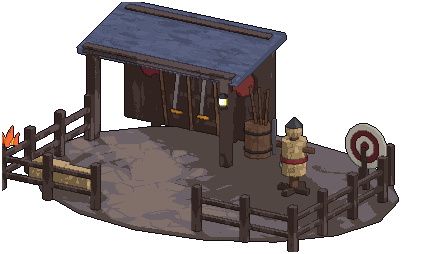
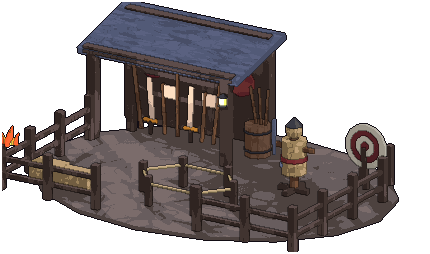
Town: heroes sort with the buildings by depth, calmer cobbles, brazier picture for the fires, trainer, market and trade table improved
Claude-Session: https://claude.ai/code/session_015fEAdaJScRneJQoLDJEkeN

diff --git a/tools/char3d/town_models.py b/tools/char3d/town_models.py
@@ -129,19 +129,26 @@ def trainer():
     prim("box", P["slate"], (-3.0, 2.8, 3.4), (6.0, 3.0, 0.22), rot=(14, 0, 0))
     box(P["wd"], -3.0, 1.45, 3.0, 5.6, 0.25, 0.25)
     point(-3.0, 1.0, 2.2, 260, (1.0, 0.6, 0.3), 0.4)
-    # weapon rack against the back wall
-    box(P["wd"], -4.4, 3.5, 0.12, 0.2, 0.2, 1.7)
-    box(P["wd"], -1.5, 3.5, 0.12, 0.2, 0.2, 1.7)
-    box(P["wd"], -2.95, 3.5, 0.55, 3.0, 0.2, 0.14)
-    box(P["wd"], -2.95, 3.5, 1.35, 3.0, 0.2, 0.14)
-    for k, x in enumerate([-4.0, -3.5, -3.0, -2.5, -2.0]):
-        tilt = (-7, 7, -4, 6, -5)[k]
-        if k in (0, 2, 4):                                            # spears
-            box(P["wl"], x, 3.3, 0.3, 0.09, 0.09, 2.3, rot=(0, tilt, 0))
-            cone(P["steel"], x + math.sin(math.radians(tilt)) * -1.2, 3.3, 2.55, 0.18, 0.5, seg=4)
-        else:                                                         # swords
-            box(P["steel"], x, 3.3, 0.9, 0.12, 0.06, 1.3, rot=(0, tilt, 0))
-            box(P["gold"], x, 3.3, 0.78, 0.4, 0.08, 0.08)
+    # a weapon rack standing in front of the back wall: two tiers, swords, spears and axes, all in the light
+    rx, ry = -3.0, 2.7
+    for x in (-1.8, 1.8):
+        box(P["wd"], rx + x, ry, 0.12, 0.24, 0.24, 2.1)
+    for z in (0.55, 1.5, 2.2):
+        box(P["wd"], rx, ry, z, 3.9, 0.22, 0.16)
+    bright = mat("steel_b", (176, 184, 204), rough=0.35)
+    for k in range(7):
+        x = rx - 1.5 + k * 0.5
+        tilt = (k - 3) * 2.5
+        if k % 3 == 0:                                                # spears
+            box(P["wl"], x, ry - 0.15, 0.3, 0.1, 0.1, 2.3, rot=(0, tilt, 0))
+            cone(bright, x - math.sin(math.radians(tilt)) * 1.1, ry - 0.15, 2.5, 0.24, 0.55, seg=4)
+        elif k % 3 == 1:                                              # swords
+            box(bright, x, ry - 0.15, 0.7, 0.17, 0.06, 1.4, rot=(0, tilt, 0))
+            box(P["gold"], x, ry - 0.15, 0.62, 0.5, 0.09, 0.1)
+            box(P["wd"], x, ry - 0.15, 0.2, 0.1, 0.1, 0.45)
+        else:                                                         # axes
+            box(P["wl"], x, ry - 0.15, 0.3, 0.1, 0.1, 1.7, rot=(0, tilt, 0))
+            box(bright, x + 0.2, ry - 0.15, 1.55, 0.5, 0.08, 0.42)
     for x in (-4.6, -1.3):                                            # shields on the wall
         cyl(P["crim"], x, 3.65, 2.1, 1.0, 0.1, seg=10).rotation_euler = (math.pi / 2, 0, 0)
         sph(P["steel"], x, 3.6, 2.6, 0.3, 0.2, 0.3)
@@ -170,6 +177,13 @@ def trainer():
     for bx, by in [(-4.6, -2.6), (-3.4, -2.8)]:
         box(ds, bx, by, 0.12, 1.1, 0.7, 0.6)
     flame(-5.3, -3.9, 1.62, 0.5)
+    rope = mat("rope", (176, 150, 100))
+    for k in range(6):                                                # sparring ring
+        a0, a1 = k * math.tau / 6, (k + 1) * math.tau / 6
+        px0, py0 = 0.2 + 1.7 * math.cos(a0), -1.9 + 1.2 * math.sin(a0)
+        px1, py1 = 0.2 + 1.7 * math.cos(a1), -1.9 + 1.2 * math.sin(a1)
+        box(P["wd"], px0, py0, 0.12, 0.2, 0.2, 1.0)
+        prim("box", rope, ((px0 + px1) / 2, (py0 + py1) / 2, 0.85), (math.hypot(px1 - px0, py1 - py0), 0.07, 0.07), rot=(0, 0, math.degrees(math.atan2(py1 - py0, px1 - px0))))
     return dict(res=(1700, 1000), cz=2.0, turn=32, amb=0.8)
 
 
@@ -420,13 +434,25 @@ def market():
         box(P["st"], sx * 6.2, 0, 0.14, 0.7, 4.6, h)
     box(P["sd"], 0, 0, 0.14, 12.0, 4.2, 0.1)
     box(P["sd"], 0, -2.2, 0.14 + h, 13.4, 1.0, 0.35)
-    gable(P["tile"], 0, 0, 0.14 + h + 0.2, 14.0, 6.0, 2.2)
+    gable(mat("tile_m", (40, 22, 30), (76, 40, 46), tex="roof", scale=7.0), 0, 0, 0.14 + h + 0.2, 14.0, 6.0, 2.2)
     box(P["sd"], 0, 0, 0.14 + h + 2.4, 14.2, 0.35, 0.22)
-    # a bell cupola on the ridge
-    box(P["wd"], 0, 0, 6.55, 1.5, 1.5, 0.9)
-    box(P["black"], 0, -0.78, 6.75, 0.8, 0.1, 0.55)
-    pyramid(P["slate"], 0, 0, 7.45, 1.9, 1.9, 1.2)
-    box(P["gold"], 0, -0.3, 6.75, 0.3, 0.3, 0.4)
+    # a clock turret on the ridge, a chimney and hanging signs
+    box(P["st"], 0, 0, 6.55, 1.9, 1.9, 1.4)
+    cyl(P["bone"], 0, -0.98, 6.9, 1.1, 0.1, seg=14).rotation_euler = (math.pi / 2, 0, 0)
+    box(P["black"], 0, -1.06, 7.45, 0.08, 0.05, 0.4)
+    box(P["black"], 0.2, -1.06, 7.45, 0.35, 0.05, 0.08)
+    for sx in (-1, 1):
+        box(P["black"], sx * 0.5, -0.9, 7.8, 0.3, 0.08, 0.5)
+    pyramid(P["slate"], 0, 0, 7.95, 2.3, 2.3, 1.5)
+    box(P["gold"], 0, 0, 9.4, 0.14, 0.14, 0.5)
+    box(P["st"], -4.6, 0.8, 5.6, 0.9, 0.9, 1.6)
+    box(P["sd"], -4.6, 0.8, 7.2, 1.2, 1.2, 0.2)
+    for sx, kind in ((-3.6, "coin"), (3.6, "scale")):
+        box(P["iron"], sx, -2.95, 3.55, 0.08, 0.9, 0.08)
+        box(P["iron"], sx, -3.3, 3.0, 0.05, 0.05, 0.55)
+        box(P["wl"], sx, -3.4, 2.1, 1.1, 0.1, 0.95)
+        box(P["gold"], sx, -3.47, 2.2, 0.7, 0.05, 0.7) if kind == "coin" else box(P["bone"], sx, -3.47, 2.2, 0.7, 0.05, 0.7)
+        box(P["crim"], sx, -3.52, 2.45, 0.3, 0.04, 0.3)
     for ax in xs:                                                     # keystones and stalls in the bays
         box(P["sl"], ax, -2.62, 0.14 + 3.2 + 0.1, 0.5, 0.2, 0.6)
         box(P["wd"], ax, -1.5, 0.14, 1.5, 0.7, 1.0)
@@ -521,7 +547,7 @@ def post():
 # ---------------------------------------------------------------- the trade table
 def trade():
     P = palette()
-    cyl(P["fl"], 0, 0, 0, 9.2, 0.14, seg=16)
+    cyl(P["fl"], 0, 0, 0, 10.0, 0.14, seg=16)
     cyl(P["sd"], 0, 0, 0.14, 2.0, 1.0, top=0.8, seg=10)
     cyl(P["sl"], 0, 0, 1.14, 4.0, 0.5, seg=14)
     cyl(P["st"], 0, 0, 1.64, 3.7, 0.12, seg=14)
@@ -534,13 +560,13 @@ def trade():
         box(P["st"], 0, sy * 3.0, 0.59, 3.2, 0.75, 0.2)
     for sx in (-4.0, 4.0):
         pass
-    for px in (-3.5, 3.5):
-        for py in (-3.5, 3.5):
-            box(P["wd"], px, py, 0.14, 0.28, 0.28, 4.0)
+    for px in (-3.3, 3.3):
+        for py in (-3.3, 3.3):
+            box(P["wd"], px, py, 0.14, 0.28, 0.28, 5.2)
     cl1, cl2 = mat("can1", (100, 28, 40)), mat("can2", (46, 40, 60))
-    can = cone(cl1, 0, 0, 4.0, 9.0, 2.2, seg=8, tip=0.02)
+    can = cone(cl1, 0, 0, 5.2, 9.8, 1.9, seg=8, tip=0.02)
     alt_faces(can, cl2, 8)
-    cyl(P["gold"], 0, 0, 6.2, 0.4, 0.4, seg=8, top=0.5)
+    cyl(P["gold"], 0, 0, 7.05, 0.4, 0.4, seg=8, top=0.5)
     # goods on the table
     for gx, gy in [(-1.0, -0.3), (1.0, 0.3)]:
         cyl(P["gold"], gx, gy, 1.76, 0.3, 0.35, top=1.4, seg=8)
@@ -549,11 +575,11 @@ def trade():
     for k, (cx_, cy_) in enumerate([(-0.4, -1.0), (-0.2, -1.1), (-0.3, -0.9)]):
         cyl(P["gold"], cx_, cy_, 1.76 + k * 0.05, 0.3, 0.05, seg=8)
     box(P["bone"], 0.7, -0.9, 1.76, 0.6, 0.45, 0.03, rot=(0, 0, 20))
-    for lx, ly in [(-3.5, -3.7), (3.5, -3.7)]:
-        box(P["iron"], lx, ly + 0.3, 3.2, 0.04, 0.04, 0.8)
-        lantern(lx, ly + 0.25, 2.55, 1.0, 100)
-    point(0, -0.5, 3.2, 500, (1.0, 0.65, 0.3), 0.8)
-    return dict(res=(1250, 1180), cz=3.0, turn=30, amb=0.8)
+    for lx, ly in [(-3.3, -3.3), (3.3, -3.3)]:
+        box(P["iron"], lx, ly + 0.2, 4.4, 0.04, 0.04, 0.8)
+        lantern(lx, ly + 0.2, 3.5, 1.0, 100)
+    point(0, -0.5, 3.4, 600, (1.0, 0.65, 0.3), 0.8)
+    return dict(res=(1400, 1500), cz=3.4, turn=30, amb=0.8)
 
 
 # ---------------------------------------------------------------- the world board
@@ -648,5 +674,20 @@ def trial():
     return dict(res=(2000, 1380), cz=3.6, turn=22, amb=0.75, key=4.4)
 
 
+# ---------------------------------------------------------------- a brazier: a fire to sit at
+def brazier():
+    P = palette()
+    cyl(P["fl"], 0, 0, 0, 2.4, 0.14, seg=10)
+    for k in range(3):
+        a = k * math.tau / 3 + 0.4
+        prim("box", P["iron"], (0.4 * math.cos(a), 0.4 * math.sin(a), 0.4), (0.12, 0.12, 0.8), rot=(0, 0, 0))
+    cyl(P["iron"], 0, 0, 0.75, 1.0, 0.4, top=1.5, seg=9)
+    cyl(P["steel"], 0, 0, 1.12, 1.55, 0.07, seg=9)
+    cyl(mat("embers", (170, 50, 14), emit=1.0), 0, 0, 1.1, 1.25, 0.04, seg=9)
+    flame(0, 0, 1.12, 1.0)
+    point(0, -0.6, 1.8, 200, (1.0, 0.5, 0.2), 0.4)
+    return dict(res=(520, 560), cz=1.3, turn=30, amb=0.7)
+
+
 BUILDERS = {"hearth": hearth, "gate": gate, "trainer": trainer, "bank": bank, "smith": smith, "merchants": merchants,
-            "reader": reader, "market": market, "post": post, "trade": trade, "board": board, "trial": trial}
+            "reader": reader, "market": market, "post": post, "trade": trade, "board": board, "trial": trial, "brazier": brazier}

diff --git a/tools/char3d/town_preview.py b/tools/char3d/town_preview.py
@@ -68,7 +68,7 @@ def pic(name, k):
     return im.resize((max(1, round(im.width * k)), max(1, round(im.height * k))), Image.NEAREST)
 
 
-def compose(x0, y0, w, h, scale, labels=True, heroes=()):
+def compose(x0, y0, w, h, scale, labels=True, heroes=(), title=False):
     """w x h in preview px."""
     img = ground(x0, y0, w, h, scale)
     d = ImageDraw.Draw(img, "RGBA")
@@ -83,24 +83,35 @@ def compose(x0, y0, w, h, scale, labels=True, heroes=()):
         if (ART / ("ui_town_%s.png" % sid)).exists():
             items.append((ay + PIC_BASE, sid, name, ax))
     items.append((CENTRE[1] + HEARTH_BASE, "hearth", "", CENTRE[0]))
+    if (ART / "ui_town_brazier.png").exists():
+        for fx in (1850.0, 2250.0):                                   # HomeMap.FIRES[PLAZA]
+            items.append((2048.0 + 8.0, "brazier", "", fx))
+    for hx, hy in heroes:
+        items.append((hy, "hero", "", hx))
     items.sort()
     glow = Image.new("RGBA", img.size, (0, 0, 0, 0))
     gd = ImageDraw.Draw(glow)
     for rr, al in ((150, 14), (95, 16)):
         gd.ellipse((cx - rr * scale, cy - rr * scale, cx + rr * scale, cy + rr * scale), fill=(230, 128, 26, al))
     img.alpha_composite(glow)
-    for base, sid, name, ax in items:
-        im = pic(sid, PIC_K * scale)
-        px, py = to((ax, base))
-        img.alpha_composite(im, (round(px - im.width / 2), round(py - im.height)))
-        if labels and sid != "hearth":
-            d.text((px - 4 * len(name), py - im.height - 14), name, fill=(214, 190, 120, 255))
     hs = hero()
     hk = HERO_BOX / 142.0 * scale
     hi = hs.resize((round(hs.width * hk), round(hs.height * hk)), Image.NEAREST)
-    for hx, hy in heroes:
-        px, py = to((hx, hy))
-        img.alpha_composite(hi, (round(px - hi.width / 2), round(py - hi.height + 3 * scale)))
+    labs = []
+    for base, sid, name, ax in items:
+        if sid == "hero":
+            px, py = to((ax, base))
+            img.alpha_composite(hi, (round(px - hi.width / 2), round(py - hi.height + 3 * scale)))
+            continue
+        im = pic(sid, PIC_K * scale)
+        px, py = to((ax, base))
+        img.alpha_composite(im, (round(px - im.width / 2), round(py - im.height)))
+        if labels and sid not in ("hearth", "brazier"):
+            labs.append((px, py - im.height - 14, name))
+    for px, ly, name in labs:                                         # labels last, over everything
+        if title and abs(px - img.width / 2) < 150 * scale / 1.0 and ly < 38 * scale:
+            ly = 38 * scale                                           # below the title bar
+        d.text((px - 4 * len(name), ly), name, fill=(214, 190, 120, 255))
     return img
 
 
@@ -114,7 +125,7 @@ def main():
     s = ZOOM * 1.5
     w, h = 1440, 810
     x0, y0 = sm[2] - w / s / 2, sm[3] - h / s / 2 - 20
-    crop = compose(x0, y0, w, h, s, heroes=[(sm[2] - 70, sm[3] + 95), (sm[2] + 30, sm[3] + 120)])
+    crop = compose(x0, y0, w, h, s, heroes=[(sm[2] - 70, sm[3] + 95), (sm[2] + 30, sm[3] - 10), (sm[2] - 110, sm[3] - 30)], title=True)
     crop.convert("RGB").save(out / "town_preview_smith.png")
     print("ok", out)
 

diff --git a/tools/ground/ground.py b/tools/ground/ground.py
@@ -38,9 +38,16 @@ def fbm(rng, cells, octaves=5):
     return out / tot
 
 
-def cells_map(rng, count):
-    """Periodic Voronoi: distance to the nearest point (f1), to the second (f2) and the nearest point's id."""
-    pts = rng.random((count, 2)) * N
+def cells_map(rng, count, grid=False):
+    """Periodic Voronoi: distance to the nearest point (f1), to the second (f2) and the nearest point's id.
+    grid: `count` is a square and the points are a jittered grid, so the cells come out even in size."""
+    if grid:
+        k = int(round(count ** 0.5))
+        gy, gx = np.mgrid[0:k, 0:k]
+        pts = (np.stack([gx.ravel(), gy.ravel()], 1) + 0.5 + rng.uniform(-0.3, 0.3, (k * k, 2))) * (N / k)
+        count = k * k
+    else:
+        pts = rng.random((count, 2)) * N
     y, x = np.mgrid[0:N, 0:N]
     f1 = np.full((N, N), 1e9)
     f2 = np.full((N, N), 1e9)
@@ -211,19 +218,20 @@ def edge(rng):  # THE EDGE: cracked ash plates; plates with embers in the cracks
 def cobbles(rng, count, puddle):
     """Dark wet cobbles for the town plaza: domed stones, grimy joints, a cold sheen on the upper left of each.
     puddle > 0 floods the low places with still, dark water (the `b` tile)."""
-    f1, f2, ident = cells_map(rng, count)
+    f1, f2, ident = cells_map(rng, count, grid=True)
+    count = ident.max() + 1
     gap = f2 - f1
     joint = np.clip(gap / 2.8, 0, 1)
     dome = np.clip(gap / 9.0, 0, 1) ** 0.7
     shade = rng.uniform(-1, 1, count)[ident]
     fine = fbm(rng, 64, 2)
     v = 0.5 + 0.22 * shade + 0.3 * (fine - 0.5)
-    img = ramp(np.clip(v, 0, 1), [(0, (26, 28, 38)), (0.5, (46, 50, 64)), (1, (74, 79, 98))])
-    img = lit(img, dome, 2.6, 24)
+    img = ramp(np.clip(v, 0, 1), [(0, (33, 36, 47)), (0.5, (47, 51, 65)), (1, (65, 70, 87))])
+    img = lit(img, dome, 2.2, 15)
     sheen = np.clip(emboss(dome, 4.0) - 0.55, 0, 1)
-    img = img + sheen[..., None] * np.array([26.0, 34.0, 52.0])
-    grime = ramp(norm(fbm(rng, 24, 3)), [(0, (14, 16, 18)), (1, (24, 30, 26))])
-    img = img * joint[..., None] + grime * (1 - joint[..., None]) * 0.9
+    img = img + sheen[..., None] * np.array([12.0, 16.0, 26.0])
+    grime = ramp(norm(fbm(rng, 24, 3)), [(0, (24, 26, 32)), (1, (32, 38, 38))])
+    img = img * (0.35 + 0.65 * joint[..., None]) + grime * (1 - joint[..., None]) * 0.65
     if puddle > 0:
         depth = norm(fbm(rng, 3, 3))
         w = np.clip((depth - (1 - puddle)) * 9, 0, 1)[..., None]
@@ -235,7 +243,7 @@ def cobbles(rng, count, puddle):
 
 
 def town(rng):  # THE PLAZA: wet dark cobbles; cobbles with standing water between
-    return cobbles(rng, 560, 0.0), cobbles(rng, 560, 0.4)
+    return cobbles(rng, 400, 0.0), cobbles(rng, 400, 0.4)
 
 
 def save(img, path, colours=40):
